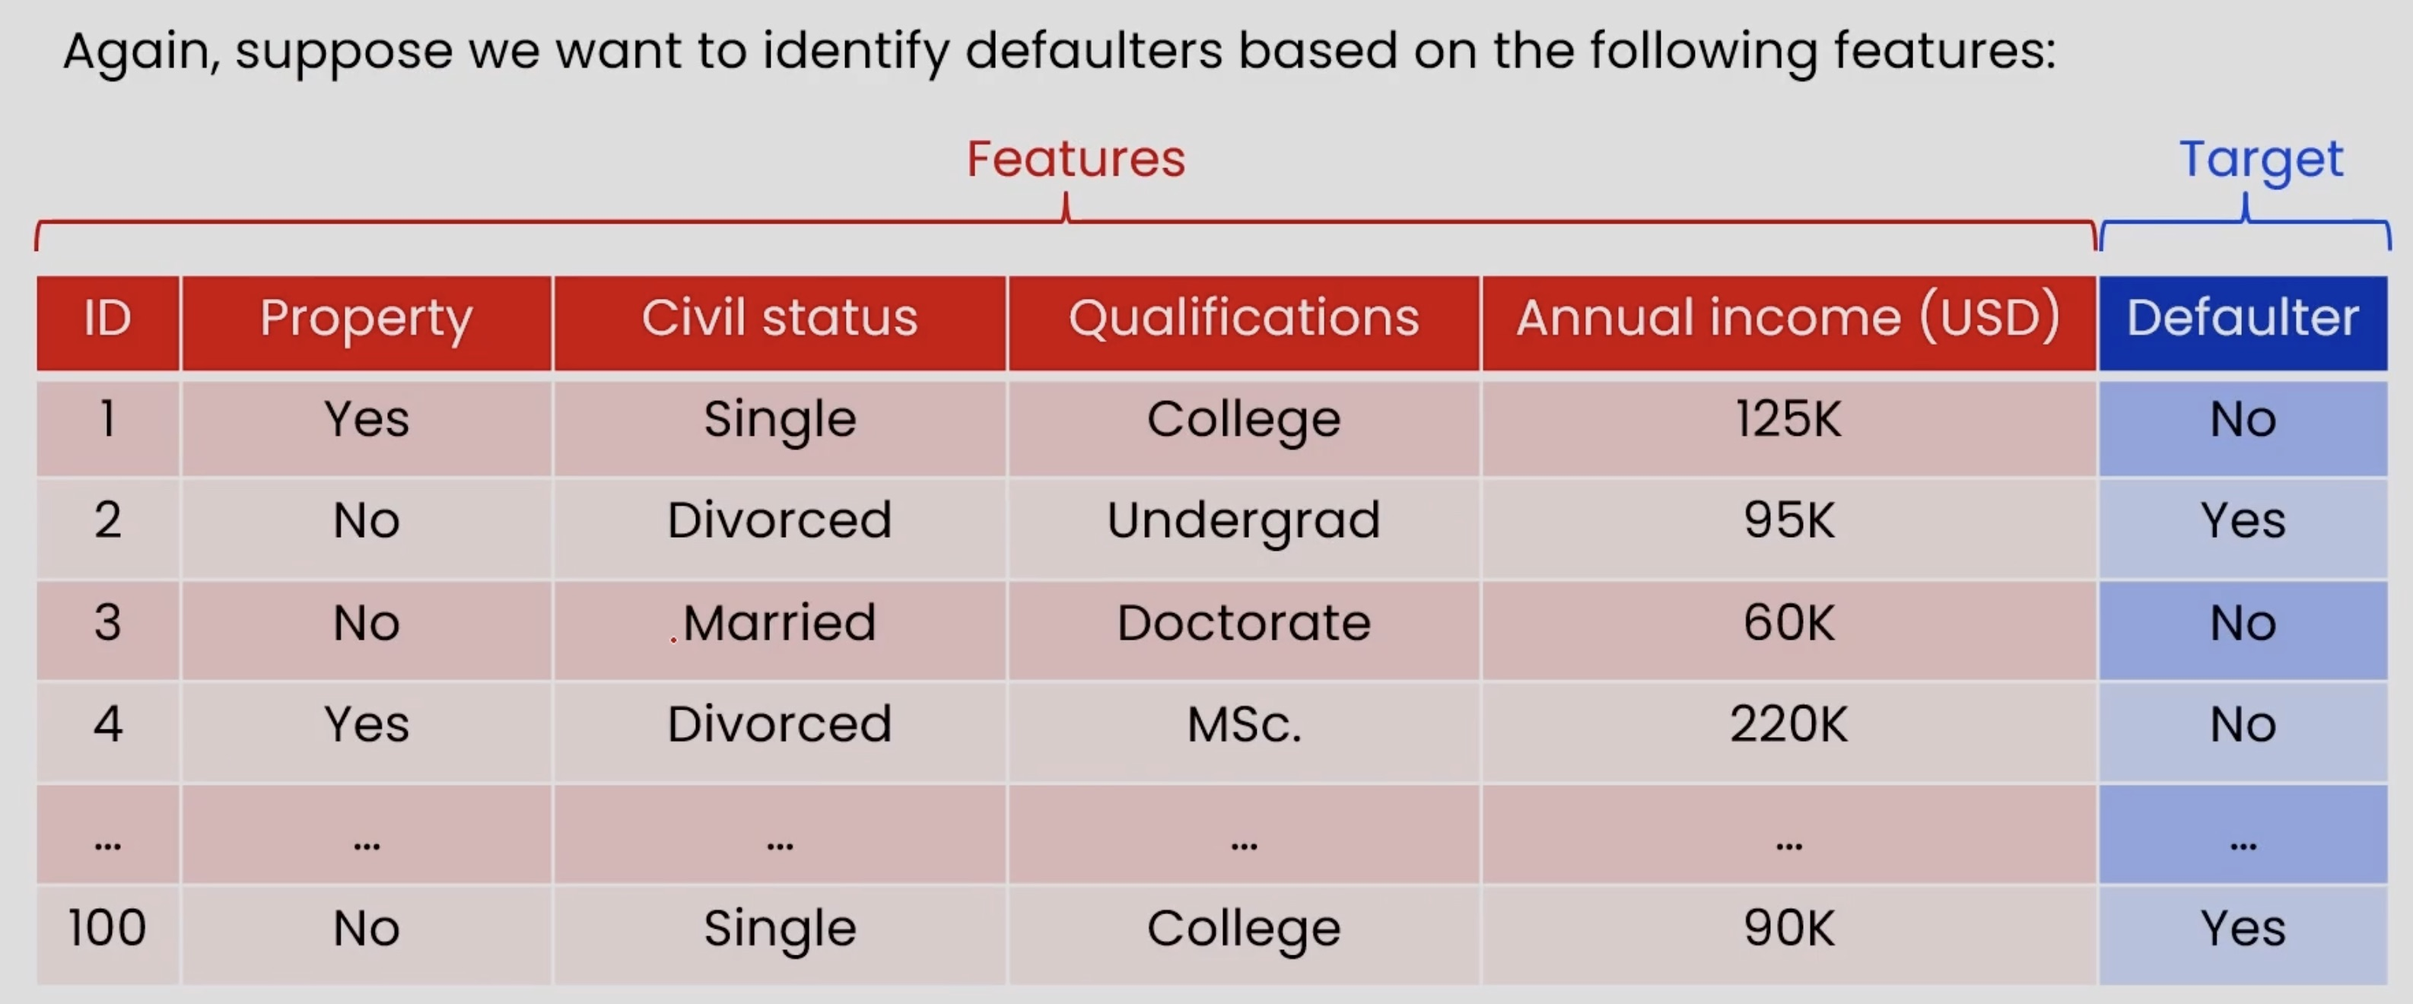
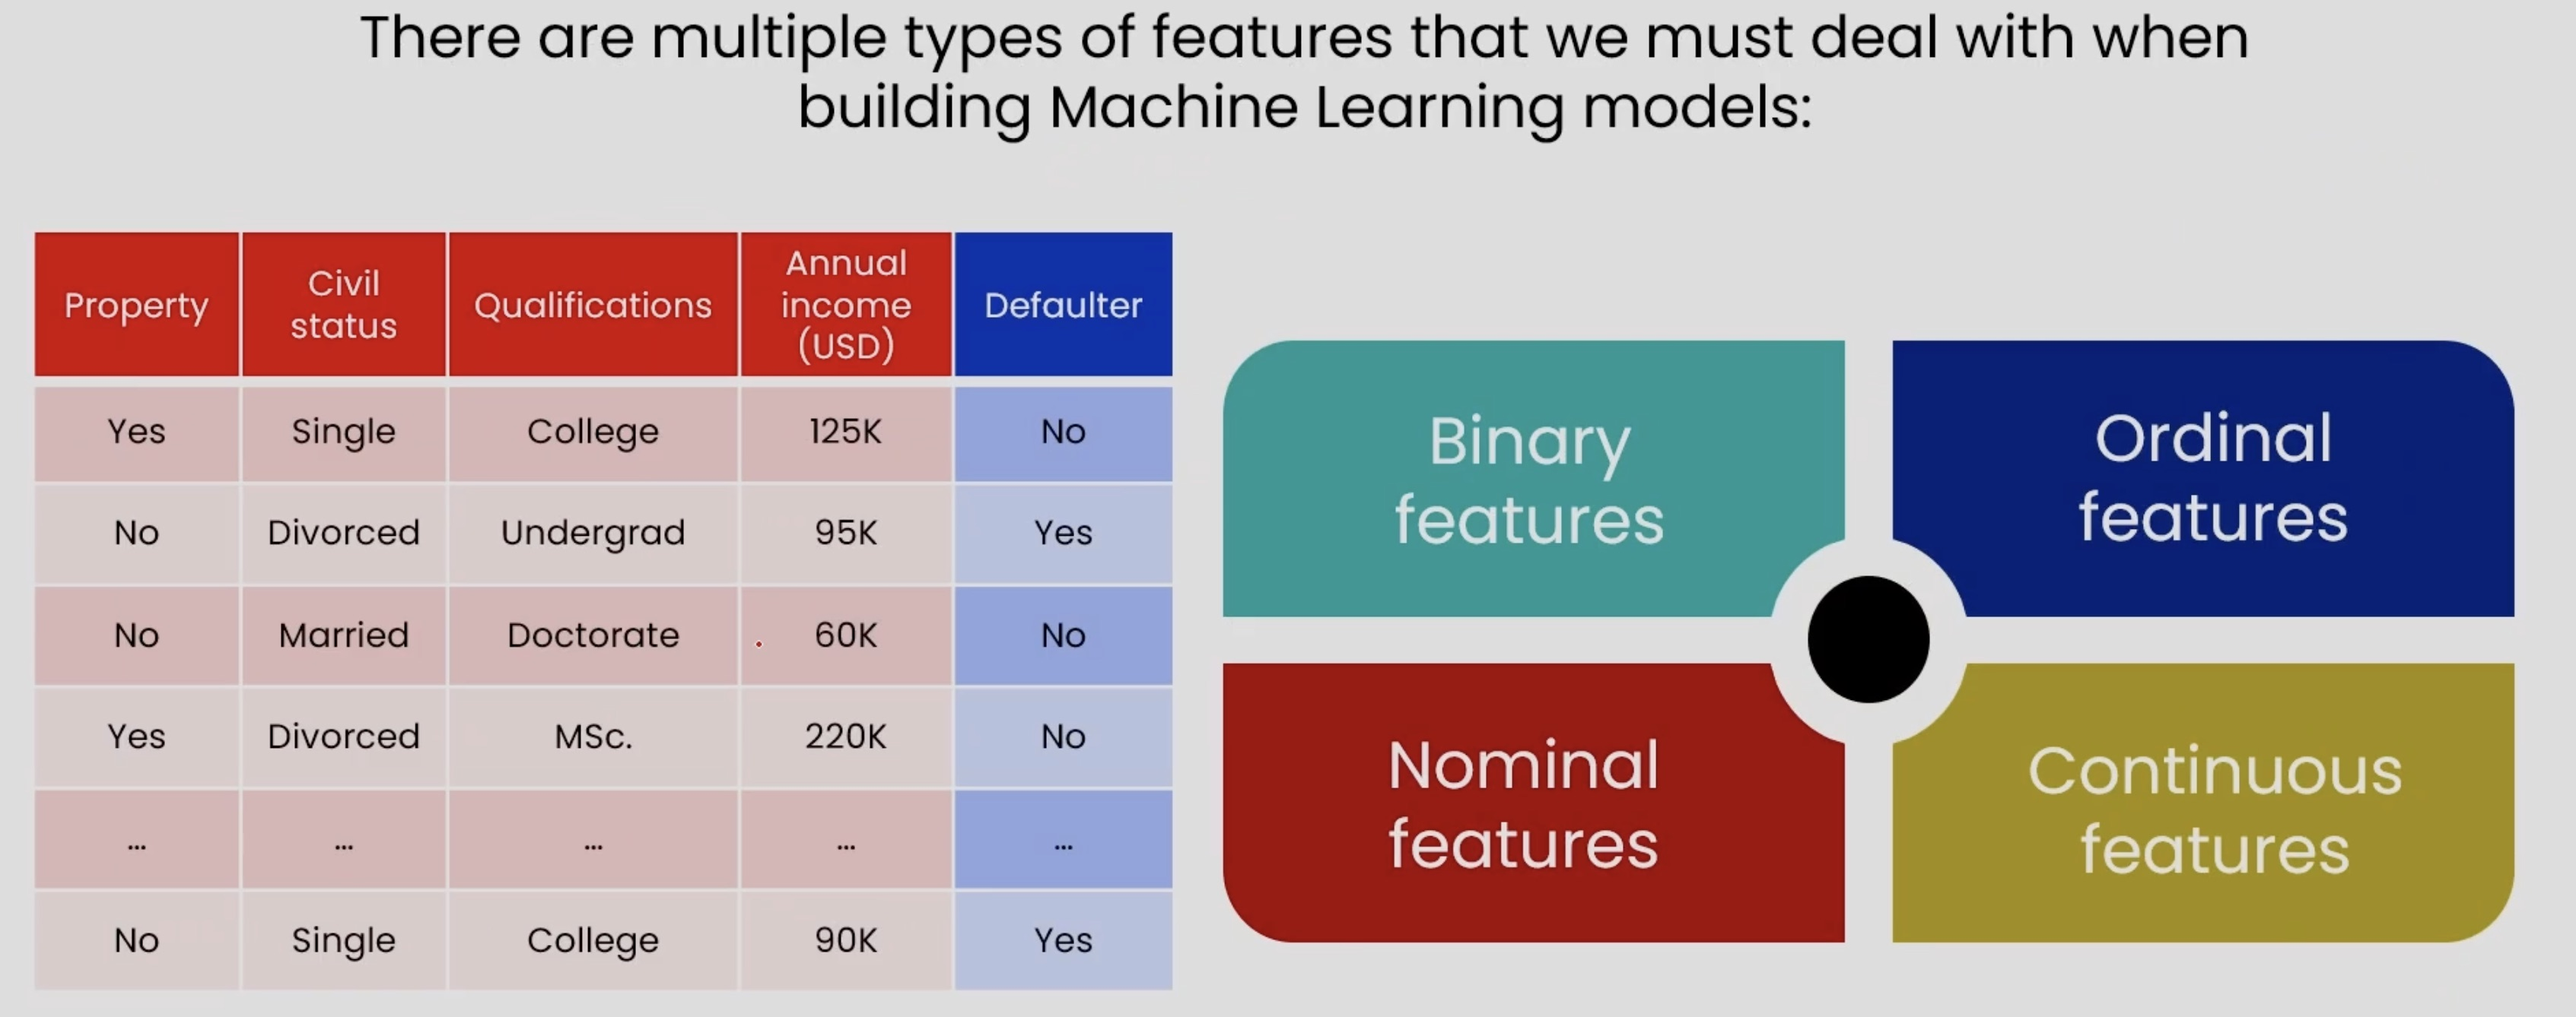
add definitions

diff --git a/machine-learning/machine-learning.md b/machine-learning/machine-learning.md
@@ -681,6 +681,18 @@
 
 ---
 
+### Supervised: Feature Engineering: Feature Examples
+
+<img src="images/feature-engineering-examples.jpeg" alt="feature-engineering-types" style="width: 900px;">
+
+---
+
 ### Supervised: Feature Engineering: Types of Features
 
 <img src="images/feature-engineering-types.jpeg" alt="feature-engineering-types" style="width: 900px;">
+
+---
+
+### Supervised: Feature Engineering: Binary and Continuous Features
+
+<img src="images/binary-continuous-features.jpeg" alt="binary-continuous-features" style="width: 900px;">
